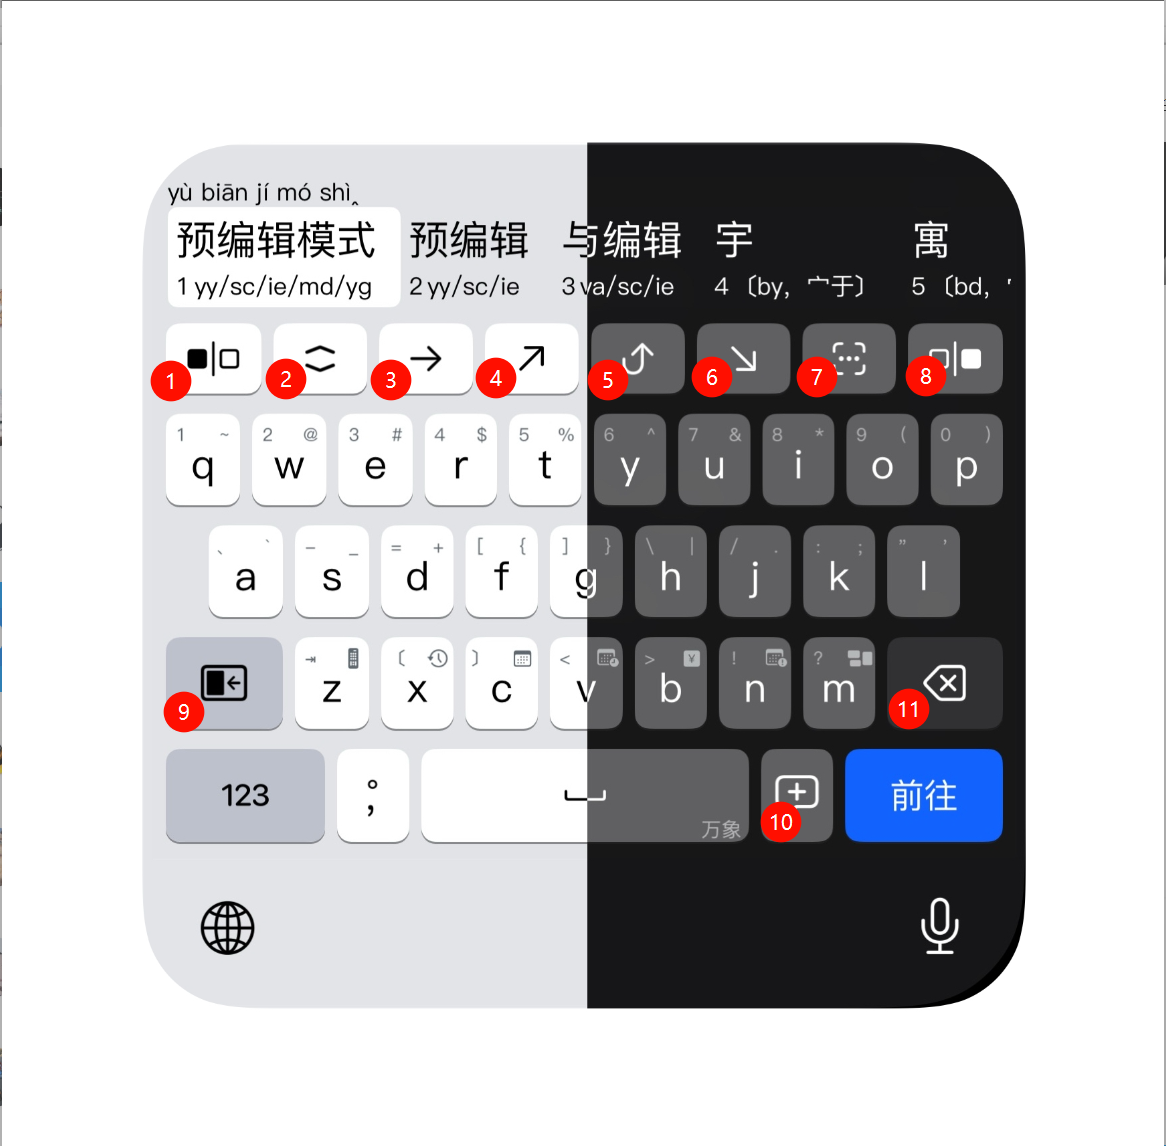
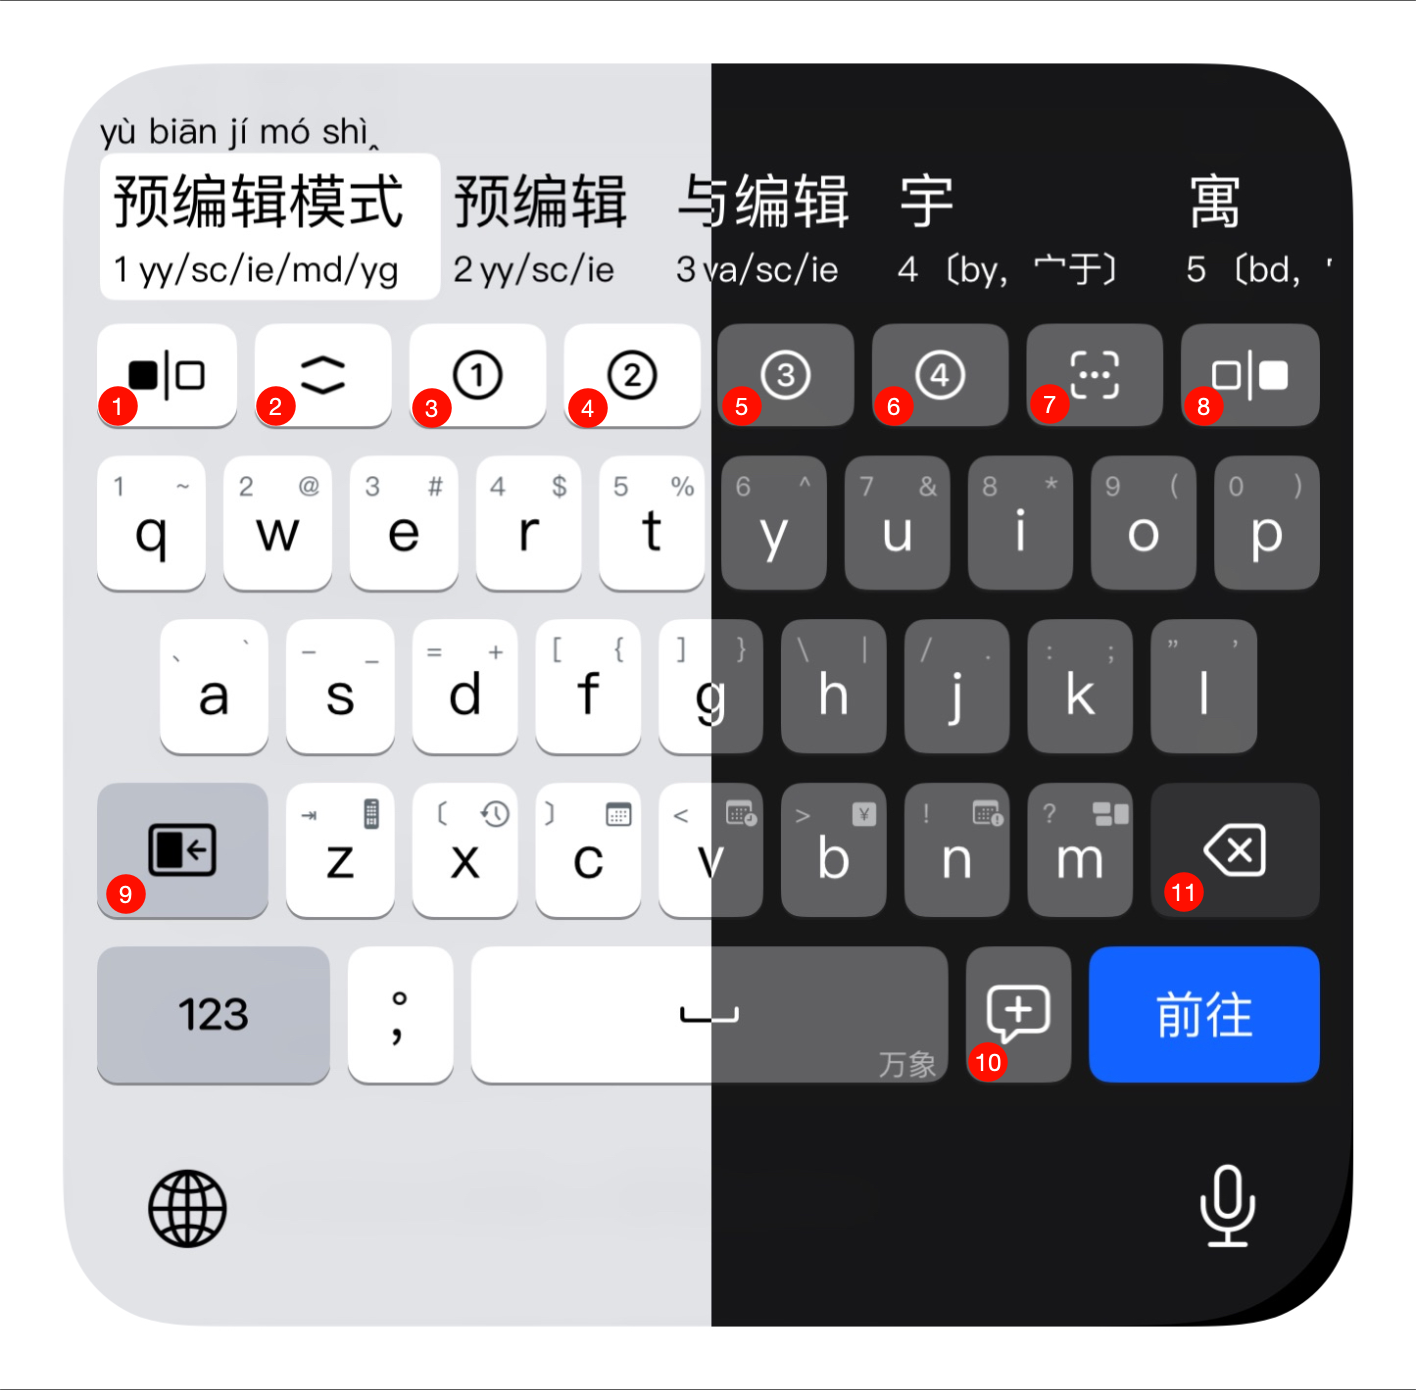
调整预编辑模式的声调辅助显示，control+数字改为声调辅助键上下划

diff --git a/Skin_Keyboard/万象-元书/README.md b/Skin_Keyboard/万象-元书/README.md
@@ -45,10 +45,10 @@
 | --- | --- | --- | --- | --- |
 | 1 | 左移切换候选 | 无 | 无 | 以词定字 |
 | 2 | 候选词向下翻页 | 无 | 候选词向上翻页 | 候选词向下翻页 |
-| 3 | 声调辅助：一声 | 无 | 无 | 无 |
-| 4 | 声调辅助：二声 | 无 | 无 | 无 |
-| 5 | 声调辅助：三声 | 无 | 无 | 无 |
-| 6 | 声调辅助：四声或轻声 | 无 | 无 | 无 |
+| 3 | 声调辅助：一声 | 无 | 前一个候选自上屏 | 前一个候选自上屏 |
+| 4 | 声调辅助：二声 | 无 | 前两个候选自上屏 | 前两个候选自上屏 |
+| 5 | 声调辅助：三声 | 无 | 前三个候选自上屏 | 前三个候选自上屏 |
+| 6 | 声调辅助：四声或轻声 | 无 | 前四个候选自上屏 | 前四个候选自上屏 |
 | 7 | `\`引导的符号包裹，按下26个字母会显示相应符号 | 无 | 无 | 无 |
 | 8 | 右移切换候选 | 无 | 无 | 以词定字 |
 | 9 | 辅助码四码合并| 无 | `'`分词或三码合并 | 无 |
@@ -59,7 +59,7 @@
 ### 工具栏及划动区域
 ![工具栏及划动](assets/工具栏及划动.png)
 
-| 序号 | 是否可划动 | 划动图示 | 点击功能 | 
+| 序号 | 是否可划动 | 划动图示 | 点击功能 |
 | --- | --- | --- |--- |
 | 1 | 是 | ![划动1](assets/工具栏划动1.jpeg) | 从左向右依次为：打开app、打开键盘设置、打开键盘皮肤、键盘占用提示、切换内嵌模式、方案选单 |
 | 2 | 是 | ![划动2](assets/工具栏划动2.jpeg) | 从左向右依次为：Google搜索剪切板内容、Safari打开剪切板链接、App Store搜索剪切板内容 |
